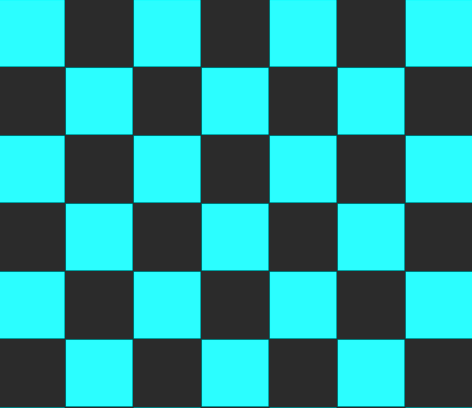
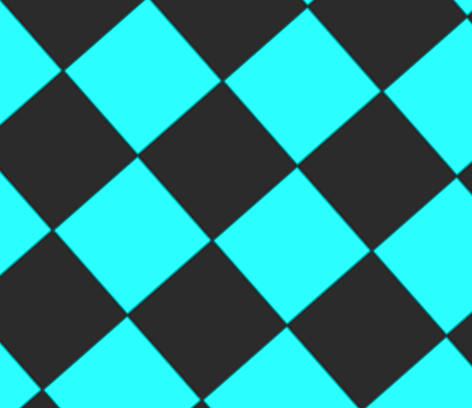
Added sweep visual effect.

diff --git a/src/main/java/com/ngexdesign/RasterImage/RasterImage.java b/src/main/java/com/ngexdesign/RasterImage/RasterImage.java
@@ -1,5 +1,7 @@
 package com.ngexdesign.RasterImage;
 
+import java.awt.Color;
+import java.awt.Graphics2D;
 import java.awt.event.ActionEvent;
 import java.awt.image.BufferedImage;
 import java.awt.image.ColorModel;
@@ -19,12 +21,13 @@ public class RasterImage
 	public enum SwipeType
 	{
 		HORIZONTAL,
-		VERTICAL;
+		VERTICAL,
+		SWEEP;
 	}
-	
+
 	public static BufferedImage bImage1, bImage2, finalImage1;
 	private int width, height;
-	
+
 	public RasterImage(int width, int height)
 	{
 		super();
@@ -40,8 +43,78 @@ public class RasterImage
 			//Not handled.
 		}
 	}
-	 
-	public BufferedImage generateMagicImage(SwipeType swipeType, int boundary) 
+
+	public BufferedImage generateRotatingSweepImage(double angle)
+	{
+		BufferedImage bImg = new BufferedImage(bImage1.getWidth(), bImage1.getHeight(), bImage1.getType());
+		
+		for(int i=0; i<bImg.getWidth(); i++) 
+        {
+            for(int j=0; j<bImg.getHeight(); j++) 
+            {
+                // Get pixel
+            	BufferedImage source = getSourceImage(angle, i, j);
+            	Color c;
+            	if(source ==null)
+            	{
+            		c = Color.GREEN;
+            	}
+            	else c = new Color(source.getRGB(i,j));
+                int newPixel = colorToRGB(c.getAlpha(), c.getRed(), c.getGreen(), c.getBlue());
+                bImg.setRGB(i, j, newPixel); 
+            }
+        }
+		return bImg;
+	}
+	
+	private BufferedImage getSourceImage(double angle, int i, int j)
+    {
+	    double deltaJ = bImage1.getHeight() - j;
+	    double deltaI = i - bImage1.getWidth() / 2;
+	    
+	    double targetAngle = Math.atan2(deltaJ, deltaI);
+	    
+	    if (Math.abs(targetAngle - angle) <= Math.PI/180 / 5)
+	    {
+	    	return null;
+	    }
+	    else if (targetAngle - angle > Math.PI/180 / 5)
+	    {
+	    	return bImage1;
+	    }
+	    
+	    else return bImage2;
+    }
+
+	// Convert R, G, B, Alpha to standard 8 bit
+    private static int colorToRGB(int alpha, int red, int green, int blue) {
+ 
+        int newPixel = 0;
+        newPixel += alpha;
+        newPixel = newPixel << 8;
+        newPixel += red; newPixel = newPixel << 8;
+        newPixel += green; newPixel = newPixel << 8;
+        newPixel += blue;
+ 
+        return newPixel;
+ 
+    }
+	
+	public BufferedImage generateMagicImage(SwipeType swipeType, double parameter)
+	{
+		switch(swipeType)
+		{
+		case HORIZONTAL:
+		case VERTICAL:
+			return generateSwipeImage(swipeType, (int)parameter);
+		case SWEEP:
+			return generateRotatingSweepImage(parameter);
+		}
+		return null;
+	}
+	
+	
+	public BufferedImage generateSwipeImage(SwipeType swipeType, int boundary) 
 	{
 		if (swipeType == SwipeType.HORIZONTAL)
 		{
@@ -58,7 +131,7 @@ public class RasterImage
 			int bitMask[] = new int[] { 0xff0000, 0xff00, 0xff, 0xff000000 };
 			SinglePixelPackedSampleModel sampleModel = new SinglePixelPackedSampleModel(DataBuffer.TYPE_INT, bImage1.getWidth(), bImage1.getHeight(), bitMask);
 			WritableRaster writeRaster = Raster.createWritableRaster(sampleModel, buffer, null);
-			
+
 			// -------------- Image 2 ------------------
 			int pixels2[] = new int[boundary * bImage2.getHeight()];
 			PixelGrabber grabber2 = new PixelGrabber(bImage2, 0, 0, boundary, bImage2.getHeight(), pixels2, 0, boundary);
@@ -71,14 +144,36 @@ public class RasterImage
 			SinglePixelPackedSampleModel sampleModel2 = new SinglePixelPackedSampleModel(DataBuffer.TYPE_INT, boundary, bImage1.getHeight(), bitMask);
 			WritableRaster writeRaster2 = Raster.createWritableRaster(sampleModel2, buffer2, null);
 			
+			// Final Image
 			int pixels3[] = new int[4*boundary * bImage2.getHeight()];
 			writeRaster2.getPixels(0, 0, boundary, bImage2.getHeight(), pixels3);
 			writeRaster.setPixels(0, 0, boundary, bImage2.getHeight(), pixels3);
-			
+
 			finalImage1 = new BufferedImage(ColorModel.getRGBdefault(), writeRaster, false, null);
 			return finalImage1;
 		}
 		else return null;
+	}
+
+	public static BufferedImage rotateImage(BufferedImage src, double degrees) 
+	{
+		double radians = Math.toRadians(degrees);
+
+		int srcWidth = src.getWidth();
+		int srcHeight = src.getHeight();
+
+		double sin = Math.abs(Math.sin(radians));
+		double cos = Math.abs(Math.cos(radians));
+		int newWidth = (int) Math.floor(srcWidth * cos + srcHeight * sin);
+		int newHeight = (int) Math.floor(srcHeight * cos + srcWidth * sin);
+
+		BufferedImage result = new BufferedImage(newWidth, newHeight, src.getType());
+		Graphics2D g = result.createGraphics();
+		g.translate((newWidth - srcWidth) / 2, (newHeight - srcHeight) / 2);
+		g.rotate(radians, srcWidth / 2, srcHeight / 2);
+		g.drawRenderedImage(src, null);
+
+		return result;
 	}
 
 }

diff --git a/src/main/java/com/ngexdesign/RasterImage/RasterImageRunner.java b/src/main/java/com/ngexdesign/RasterImage/RasterImageRunner.java
@@ -17,19 +17,20 @@ public class RasterImageRunner extends JPanel
 {
 	private static int width = 472;
 	private static int height = 408;
-	
+
 	private Timer timer;
 	private int boundaryX = 1;
 	private BufferedImage image;
 	private RasterImage rasterImage;
-	
+
 	private int direction = 1;
-	private int speed = 20;
-	
+	private int speed = 5;
+	private double angle = 0.0;
+
 	public RasterImageRunner ()
 	{
 		rasterImage = new RasterImage(width, height);
-		timer = new Timer(20, new RasterTimer());
+		timer = new Timer(20, new RasterTimer(SwipeType.SWEEP));
 		timer.start();
 	}
 
@@ -49,20 +50,45 @@ public class RasterImageRunner extends JPanel
 	
 	private class RasterTimer implements ActionListener 
 	{
+		private SwipeType type;
+		
+		public RasterTimer(SwipeType type)
+		{
+			this.type = type;
+		}
+		
 		public void actionPerformed(ActionEvent e) 
 		{
-			if(boundaryX <= 0)
+			if(type == SwipeType.HORIZONTAL || type == SwipeType.VERTICAL)
 			{
-				boundaryX = 1;
-				direction = 1;
+				if (boundaryX <= 0)
+				{
+					boundaryX = 1;
+					direction = 1;
+				}
+				else if (boundaryX >= width)
+				{
+					boundaryX = width - 1;
+					direction = -1;
+				}
+				image = rasterImage.generateMagicImage(SwipeType.HORIZONTAL, boundaryX);
+				boundaryX += direction * speed;
 			}
-			else if(boundaryX >= width)
+			else if (type == SwipeType.SWEEP)
 			{
-				boundaryX = width - 1;
-				direction = -1;
+				if (angle <= 0)
+				{
+					angle = 0.0;
+					direction = 1;
+				}
+				else if (angle > Math.PI)
+				{
+					angle = Math.PI;
+					direction = -1;
+				}
+				image = rasterImage.generateMagicImage(SwipeType.SWEEP, angle);
+				angle += direction * speed * Math.PI/180;
 			}
-			image = rasterImage.generateMagicImage(SwipeType.HORIZONTAL, boundaryX);
-			boundaryX += direction * speed;
 		}
 	}
 }
